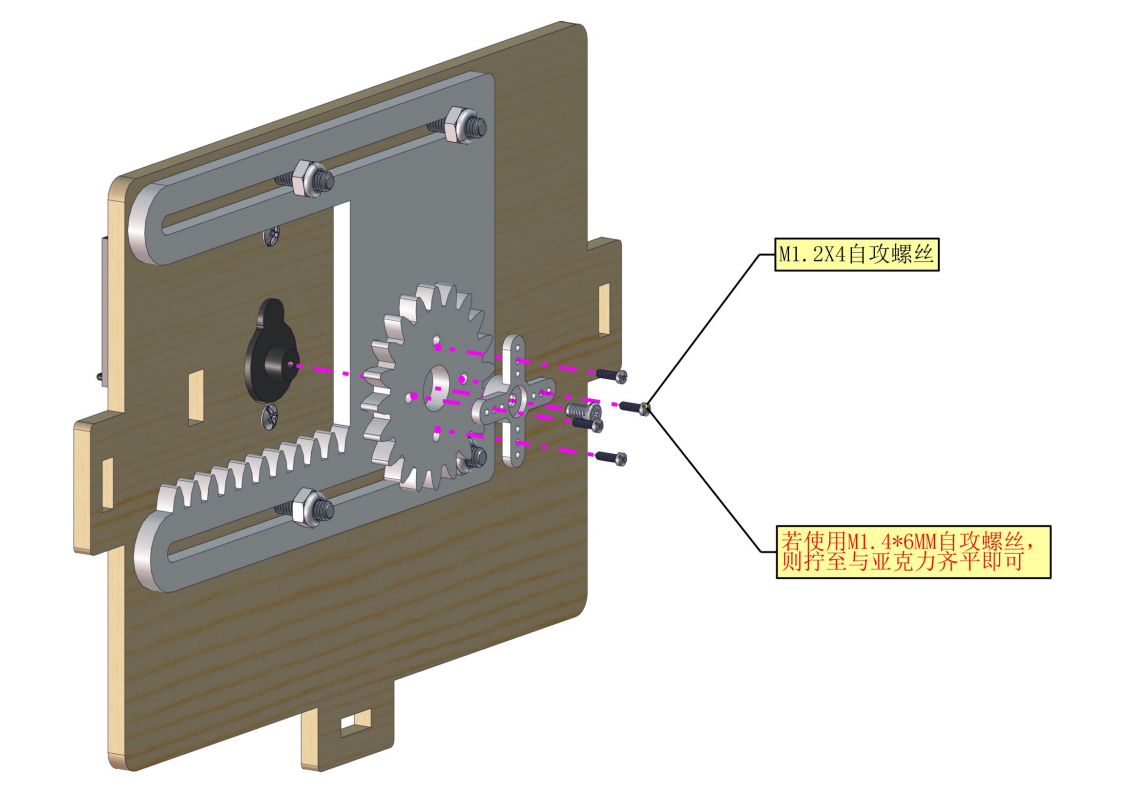
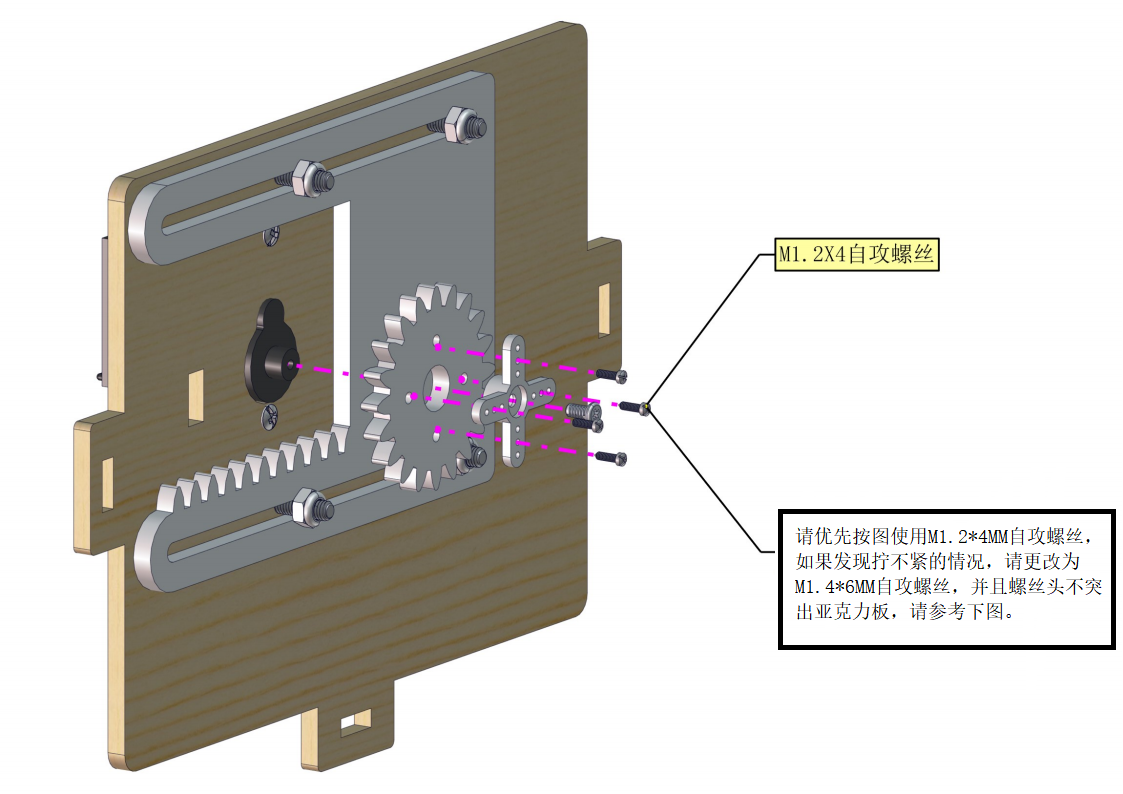
整理文档

Changed region(s): [[0.6857, 0.6348, 0.9973, 0.8161]]

diff --git a/docs/套装清单.rst b/docs/套装清单.rst
@@ -39,16 +39,17 @@ ESP32智能家居套件的时候，首先看到是一个包装精美的外盒，
    26   |image26| M3 镀镍                                           7
    27   |image27| M2 镀镍                                           6
    28   |image28| M3*8MM 平头 十字                                  3
-   29   |image29| 十字扳手 M2、M3、M4螺母                           1
-   30   |image30| 3.0*40MM 红黑色 十字螺丝刀 刀头加粗               1
-   31   |image31| 2.0*40MM 紫黑色 十字螺丝刀                        1
-   32   |image32| M3*10MM 双通                                      4
-   33   |image33| USB线                                             1
-   34   |image34| 6节5号带线15CM露线 带DC插杆                       1
-   35   |image35| M3*12MM 圆头 十字 螺钉                            4
-   36   |image36| Ic卡 白卡85.5\ *54*\ 0.80MM                       1
-   37   |image37| 钥匙扣TAG-03 41\ *33*\ 403mm ABS蓝色              1
-   38   |image38| 三叶软桨                                          1
+   29   |img|     M1.2*4MM 圆头 十字 自攻 螺丝钉                    4
+   30   |image29| 十字扳手 M2、M3、M4螺母                           1
+   31   |image30| 3.0*40MM 红黑色 十字螺丝刀 刀头加粗               1
+   32   |image31| 2.0*40MM 紫黑色 十字螺丝刀                        1
+   33   |image32| M3*10MM 双通                                      4
+   34   |image33| USB线                                             1
+   35   |image34| 6节5号带线15CM露线 带DC插杆                       1
+   36   |image35| M3*12MM 圆头 十字 螺钉                            4
+   37   |image36| Ic卡 白卡85.5\ *54*\ 0.80MM                       1
+   38   |image37| 钥匙扣TAG-03 41\ *33*\ 403mm ABS蓝色              1
+   39   |image38| 三叶软桨                                          1
    ==== ========= ================================================= ======
 
 .. |image1| image:: media/1ff9ca42ff21dff762e29dbb93e21b4e.jpeg
@@ -79,6 +80,7 @@ ESP32智能家居套件的时候，首先看到是一个包装精美的外盒，
 .. |image26| image:: media/a0b10f6e28fb19934e1fa34180ba9c4c.png
 .. |image27| image:: media/edd71615a0c4b0375d559814b5d3ad6d.png
 .. |image28| image:: media/1faf1767891020e7c190d81f25279eed.png
+.. |img| image:: media/wps1.jpg
 .. |image29| image:: media/e8e1c04d2c03b995842b0bd92e2fdf72.jpeg
 .. |image30| image:: media/f353b46e6c2c0597c3268d5aa137fd99.png
 .. |image31| image:: media/aa12dd0fe16e3f122e1822f671b3c0c7.png
